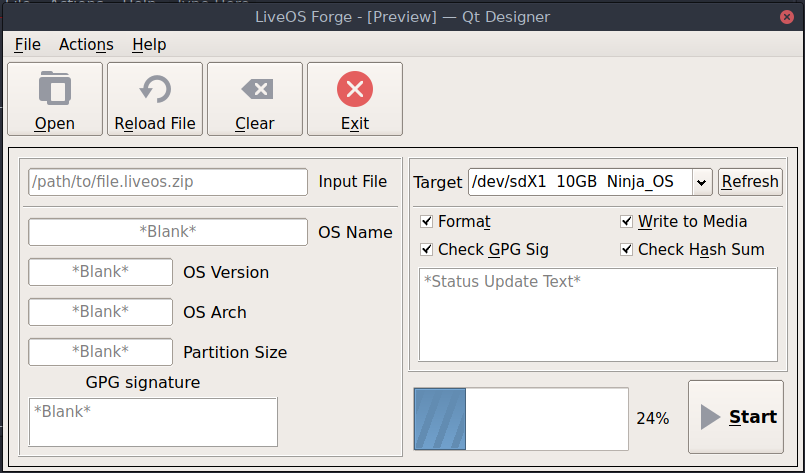
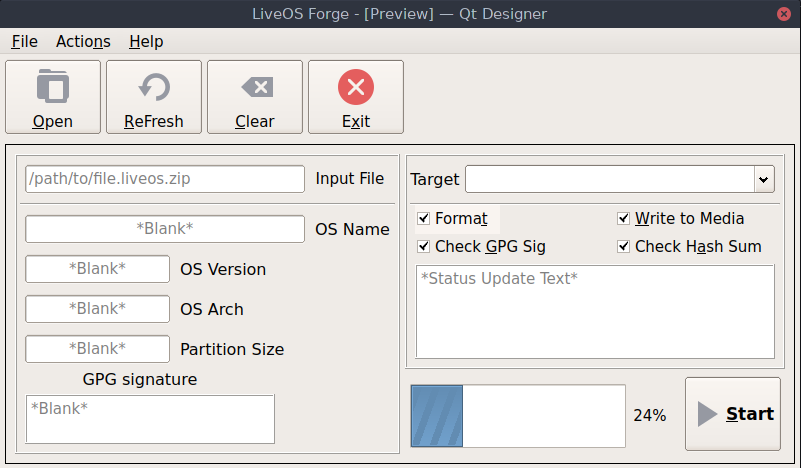
updated screenshot to reflect changes to UI file

Changed region(s): [[0.0, 0.0, 1.0, 1.0], [0.0624, 0.0, 0.0936, 0.0299], [0.0, 0.0, 0.0312, 0.0299]]

diff --git a/liveos_forge_gui.py b/liveos_forge_gui.py
@@ -151,7 +151,13 @@ def populate_options():
     options['target_select']  = window.combobox_drive_selection.currentIndex()
     
     return options
-    
+
+def action_reload():
+    '''This is what happens when the you hit the reload button'''
+
+    settings = populate_options()
+    file_open(settings['in_file'])
+   
 def action_start():
     '''This is what happens when you hit the Start button'''
 
@@ -162,7 +168,6 @@ def action_start():
 
     # Step 2 - Check settings
     settings = populate_options()
-    print(settings) #DEBUG
     
     # Step 3 - Manifest Check. Ensure all files are present
     check_opts = []
@@ -174,6 +179,8 @@ def action_start():
     if manifest_ok != True:
         window.editbox_forge_action.appendPlainText("* Files are missing from package, Stopping!")
         return
+        
+    print(settings) #DEBUG
     
 def open_about_window():
     '''opens the about window'''
@@ -201,9 +208,10 @@ def main():
     
     #button presses
     window.action_Open.triggered.connect(file_open_dialog)
+    window.action_Reload_Package.triggered.connect(action_reload)
     window.action_Clear.triggered.connect(clear_action)
     window.action_About.triggered.connect(open_about_window)
-    window.action_start.triggered.connect(action_start)
+    window.action_Start.triggered.connect(action_start)
     #window.forge_main_widget.(drop_open)
     
     window.show()
